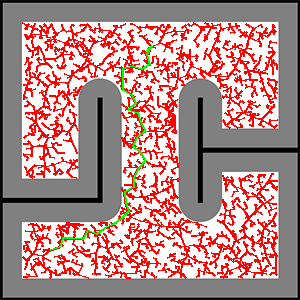
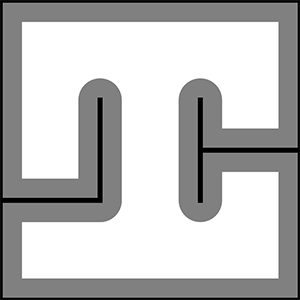
rrt and path following is functional

Changed region(s): [[0.06, 0.06, 0.93, 0.93]]

diff --git a/lab11.py b/lab11.py
@@ -14,7 +14,7 @@ class Run:
         self.time = factory.create_time_helper()
         self.map = lab11_map.Map("configuration_space.png")
         self.T = None
-        self.start = (50, 250)
+        self.start = (100, 250)
         self.end = (150, 50)
         self.create = factory.create_create()
         self.time = factory.create_time_helper()
@@ -25,64 +25,36 @@ class Run:
         self.pidDistance = pid_controller.PIDController(1000, 0, 50, [0, 0], [-200, 200], is_angle=False)
         self.waypoints = [
             [150, 50],
-            [150.14869758889074, 50.40240062947044],
-            [151.38443594068957, 44.531033605863975],
-            [157.34395035447554, 43.83519745282403],
-            [159.9830566644057, 49.22362188719136],
-            [165.01971207958653, 52.48431233995281],
-            [166.08200989749037, 51.76595509541835],
-            [162.8274040002357, 56.80654439167679],
-            [162.58914539688016, 62.80181192848672],
-            [161.65134293979207, 68.7280693099611],
-            [166.24511621483907, 72.5877645178064],
-            [169.4596961251666, 77.65397375155491],
-            [169.81189729262783, 83.64362769294743],
-            [168.1030136923147, 89.39512461466971],
-            [169.13222641008716, 95.30619230008624],
-            [164.28476945770043, 98.84203181776199],
-            [159.13657223555904, 101.92360047056458],
-            [153.29153438432476, 103.27841873056795],
-            [153.2062807131846, 109.2778130176237],
-            [147.20661026888413, 109.3406983083301],
-            [142.43545544316433, 112.9788409153496],
-            [138.14598394596814, 117.17412806580087],
-            [134.00098880255507, 121.51221696081929],
-            [128.50635958940123, 123.92241400877123],
-            [124.88953147621035, 128.70974671077053],
-            [122.03362683798868, 133.98647000249088],
-            [124.28370096943293, 139.54858887959207],
-            [126.46223063229577, 145.1391173437023],
-            [130.15695556054735, 149.86659105643264],
-            [127.60995902855399, 155.2991603073501],
-            [132.9736448370284, 157.98818885832725],
-            [133.45711508360725, 163.96867851392176],
-            [131.07296807919232, 169.4746609931292],
-            [131.24690427428683, 175.4721393132264],
-            [134.99794743982267, 180.15505242050128],
-            [138.87993530319093, 184.7300027184457],
-            [136.02415090903725, 190.00679108771996],
-            [130.8470605748313, 193.03956797886627],
-            [126.64751896605162, 197.32487430118775],
-            [125.42618081893612, 203.1992536837609],
-            [124.30401895723566, 209.09338235186317],
-            [123.03868731186792, 214.95844295063202],
-            [123.80377133289849, 220.9094635724047],
-            [121.8817393194328, 226.59328208984638],
-            [115.88754582646332, 226.32937989424667],
-            [110.90414570516865, 222.98786478413865],
-            [105.27395281619683, 225.06173267601872],
-            [99.30694346426476, 224.43340203538813],
-            [93.47788328129653, 223.01141139430277],
-            [89.13971178359841, 227.15632008528254],
-            [83.2197041879971, 226.1798416840761],
-            [77.4208438305826, 224.63931626876916],
-            [72.91510466462213, 228.60142613200236],
-            [66.9985043843938, 229.59834193787665],
-            [62.60566001766925, 233.685262339565],
-            [56.640797678751746, 234.3336582662669],
-            [57.08162675626823, 240.3174421631348],
-            [53.414063993062086, 245.06601914765804],
-            [50, 250]
+            [148.1839902399901, 48.77721068889793],
+            [147.7456873472306, 49.35175670074556],
+            [143.78340214947022, 53.532906658401366],
+            [152.38281511349754, 54.56386388866407],
+            [155.91401384634196, 61.194162234571095],
+            [155.3152360746851, 62.172473664390296],
+            [160.16587321713737, 70.91726178716733],
+            [152.8941391535281, 77.78179991497642],
+            [156.18607684046853, 87.22442382283705],
+            [156.6847270858388, 97.21198348137187],
+            [160.61438360276432, 106.40751498634671],
+            [155.3610205782822, 113.87879448081841],
+            [146.79872758494318, 119.04475409121197],
+            [138.24978803008443, 124.23278189446935],
+            [133.82168999117832, 133.19893757892163],
+            [140.28720242575596, 140.82764316757306],
+            [133.80538205759078, 148.44249738251628],
+            [134.08244016092655, 158.43865858606716],
+            [126.78615495208547, 165.27709569927123],
+            [123.55470953772019, 174.74059191018492],
+            [130.3842200285745, 182.04523334254222],
+            [125.53886739510159, 190.79295063663085],
+            [124.4628990102248, 200.73489672553848],
+            [122.27403057667186, 210.49239922262223],
+            [117.92059958103229, 219.4950454206134],
+            [111.3921763086509, 227.06998367624487],
+            [104.0249832511163, 233.83197054794272],
+            [94.4635437045154, 230.9029990908103],
+            [96.19597383721772, 240.75179017577628],
+            [100, 250]
         ]
 
     def run(self):
@@ -90,9 +62,9 @@ class Run:
         # Each pixel corresponds to 1cm
         # print(self.map.has_obstacle(50, 60))
 
-        self.generate_rrt(self.start, 3000, 10.0)
-        self.draw_edges()
-        self.draw_shortest(self.T.print_shortest())
+        # self.generate_rrt(self.start, 3000, 10.0)
+        # self.draw_edges()
+        # self.draw_shortest(self.T.print_shortest())
         self.follow_path()
 
         # This is an example on how to draw a line
@@ -166,18 +138,18 @@ class Run:
         ])
 
         self.waypoints.reverse()
-        self.odometry.x = self.waypoints[0][1]/100
-        self.odometry.y = self.waypoints[0][0]/100
+        self.odometry.x = self.waypoints[0][0]/100
+        self.odometry.y = 3 - self.waypoints[0][1]/100
         for waypoint in self.waypoints:
-            goal_x = waypoint[1] / 100
-            goal_y = -waypoint[0] / 100
+            goal_x = waypoint[0] / 100
+            goal_y = 3 - waypoint[1] / 100
 
             print("waypoint:", goal_x, goal_y)
 
             while True:
                 state = self.create.update()
                 if state is not None:
-                    if abs(goal_x - self.odometry.x) <= .1 and abs(goal_y - self.odometry.y) <= .1:
+                    if abs(goal_x - self.odometry.x) <= .2 and abs(goal_y - self.odometry.y) <= .2:
                         break
                     self.odometry.update(state.leftEncoderCounts, state.rightEncoderCounts)
                     goal_theta = math.atan2(goal_y - self.odometry.y, goal_x - self.odometry.x)
